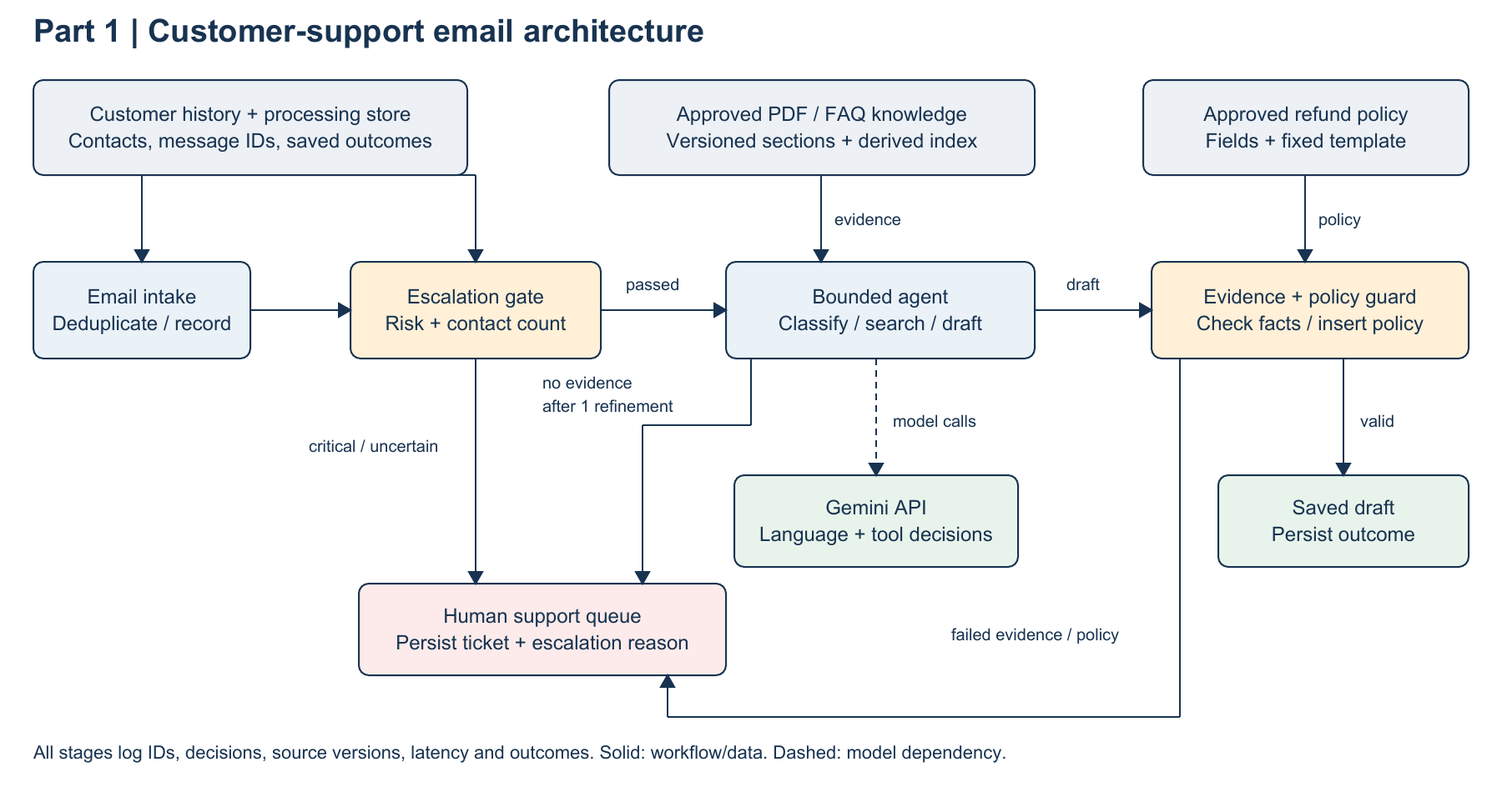
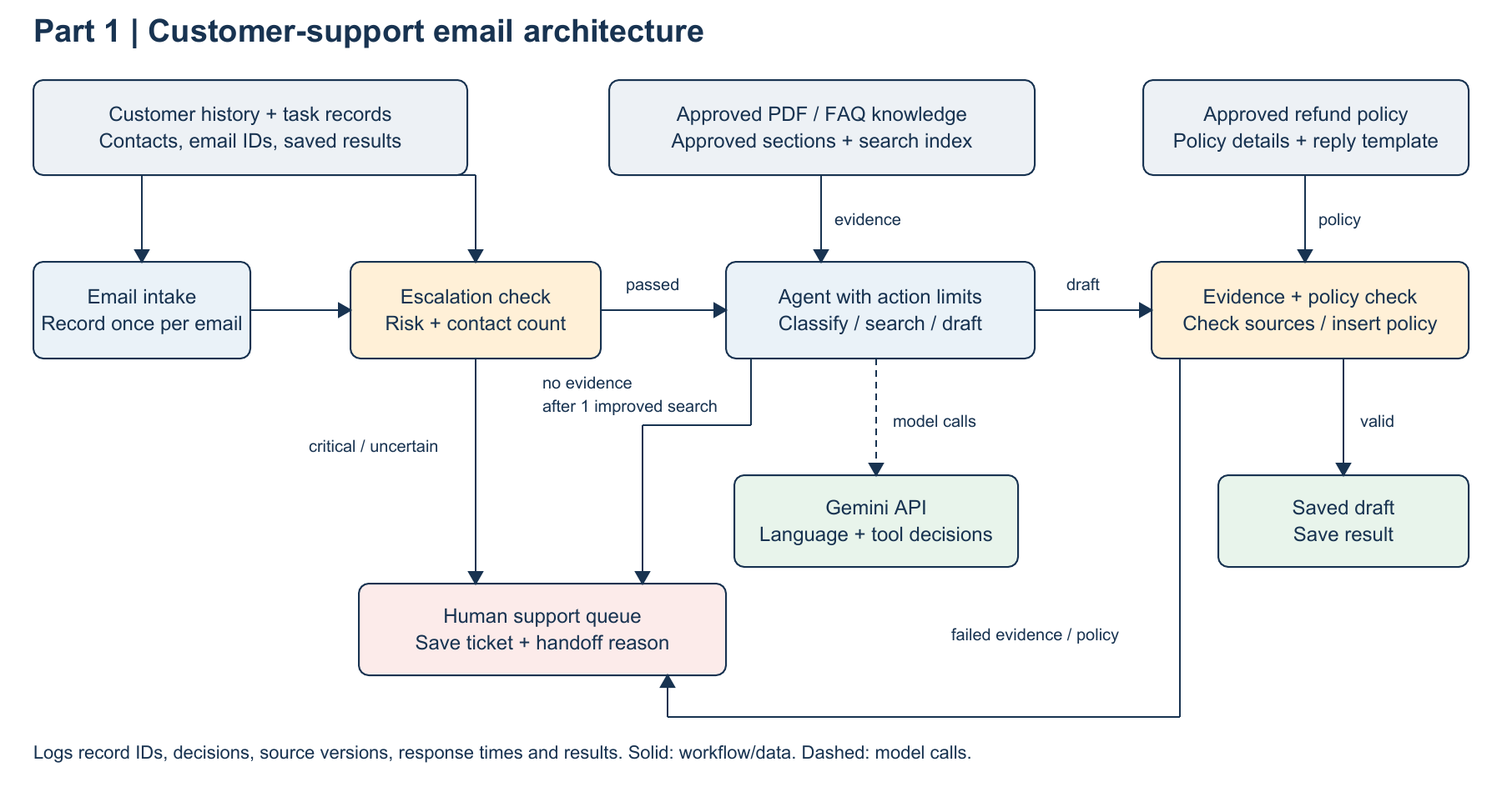
Simplify assessment documentation

diff --git a/part1/design.md b/part1/design.md
@@ -2,26 +2,26 @@
 
 ## Scope and assumptions
 
-This is the Part 1 design deliverable; the runnable document agent is Part 3. The system classifies emails, drafts responses from an approved PDF/FAQ knowledge base, and records human handoffs. Its output is a saved draft or a human ticket. Sending emails and issuing refunds are outside the requested scope.
+Part 1 proposes a system for handling customer-support emails. It assigns categories, prepares replies from approved PDFs and FAQs, and sends high-risk cases to human support staff. The system saves either a reply draft or a support ticket. Sending emails and approving refunds are outside this design. The working document agent is described in Part 3.
 
-No employer knowledge base, refund policy, traffic figures, or customer-history schema was supplied. OrbitDesk's Part 3 handbook is fictional demonstration data.
+The assessment did not provide a knowledge base, refund policy, expected email volume, or customer-history format. The OrbitDesk handbook in Part 3 is fictional sample data.
 
-Assumptions to confirm with the business:
+The following assumptions would need confirmation from the business:
 
-- A contact is one distinct received support email identified by a stable message ID. Retries are not new contacts.
-- The current email counts. More than 3 means the fourth contact triggers escalation.
-- The window includes timestamps from `received_at - 7 days` through `received_at`, inclusive, using UTC. Later contacts are not included in an older email's count.
-- Contacts are associated with a verified customer ID; unresolved identity or unavailable history requires human handling.
-- Categories may overlap: an email can be both Billing and Technical. Feedback is another supported label.
-- A policy owner approves extracted policy content before it becomes usable by the assistant.
+- One contact is one received support email with a unique message ID. Processing the same email again does not create another contact.
+- The current email counts towards the total. The fourth contact within seven days triggers a human handoff.
+- The seven-day period includes both end points, from `received_at - 7 days` to `received_at`, using UTC. An email received later is not counted when processing an earlier email.
+- Each contact belongs to a verified customer ID. If the customer cannot be identified or their history is unavailable, the email goes to a human.
+- An email can have more than one category, such as Billing and Technical. Feedback is another supported category.
+- A policy owner must approve extracted policy information before the assistant can use it.
 
 ## System architecture diagram
 
 ![Customer-support email architecture](system-design.png)
 
-The diagram shows application stages, authoritative/derived knowledge sources, the model dependency, and human/draft outcomes. The detailed control flow below includes the retry and refinement branches.
+The diagram shows the main processing steps, approved information sources, the Gemini connection, and the two outcomes: a saved draft or a human support ticket. The flow below also shows the retry and search-improvement paths.
 
-The escalation gate flags mentions of data loss, service outage or a security breach, and more than three distinct contacts from the same verified customer in the seven-day window. The current email counts. Unknown identity, incomplete history or unresolved risk requires human handoff before drafting.
+Before writing a reply, the system checks for data loss, a service outage, or a security breach. It also checks whether the customer has contacted support more than three times in seven days. Any of these conditions sends the email to a human. Missing customer details, incomplete history, or uncertain risk also blocks drafting.
 
 ### Processing flow
 
@@ -42,70 +42,70 @@ flowchart TD
     G -->|Passed| I[Save draft and processing outcome]
 ```
 
-Critical emails are flagged immediately. Their category can be recorded by a classification-only task for the human queue; that task has no drafting capability and cannot delay the critical flag or handoff.
+Critical emails are flagged immediately. A separate task can assign categories to help staff organise the ticket, but it cannot write a reply or delay the handoff.
 
-## Responsibilities and authority
+## Component responsibilities
 
-| Component | Responsibility and enforcement |
+| Component | Responsibility |
 | --- | --- |
-| Intake and state store | Store the distinct contact before counting; one record per message ID. Atomically claim processing and persist the terminal outcome. A retry returns an existing outcome or resumes pending work. |
-| Escalation gate | Block drafting until a risk decision is recorded as passed. Query distinct contacts for the verified customer and window. Literal mentions of data loss, service outage, or security breach always flag. Detect additional phrase variants with a language classifier; uncertain/failed detection goes to humans. |
-| Classifier | Return validated labels from Billing, Technical, Feedback, plus an unresolved result when necessary. Allow multiple labels. Do not let model output override the escalation gate. |
-| Knowledge search | Read approved PDF/FAQ sections with document ID, section/page, and version. Search indexes are derived from these sources and can be rebuilt. |
-| Bounded agent | Choose relevant knowledge searches based on the customer's question and inspect returned evidence. Permit one query refinement; missing evidence then ends in human handoff. No access to sending, refund issuance, or bypassing the gate. |
-| Draft and validator | Draft only from retrieved evidence. Require source references; verify the cited excerpts exist and check policy constraints. Withhold unsupported answers. |
-| Human queue | Persist escalation reasons, categories when available, and useful source references. Give humans the original email in the protected ticket system. |
+| Email intake and processing store | Record each contact before counting it, with one record for each message ID. Claim the task in one database action so two workers cannot process the same email. Save the final result. If processing is retried, return the saved result or continue unfinished work. |
+| Escalation check | Block drafting until the risk check passes. Count the customer's separate contacts in the seven-day period. Always flag the three required critical terms. Use a language classifier for similar wording. Send uncertain results or failed checks to a human. |
+| Email classifier | Assign one or more categories: Billing, Technical, and Feedback. Mark unclear cases as unresolved. The model cannot override the escalation check. |
+| Knowledge search | Search approved PDF and FAQ sections, keeping the document ID, version, and page or section reference. The search index is built from these sources and can be rebuilt. |
+| Agent with limited actions | Choose searches that match the customer's question and review the results. Allow one improved search if the first result is insufficient. If evidence is still missing, send the case to a human. The agent cannot send emails, issue refunds, or skip the escalation check. |
+| Reply writer and checker | Write the draft from retrieved information. Require source references, check that quoted text exists, and apply the policy rules. Do not produce a reply without support. |
+| Human support queue | Save the handoff reason, any available categories, and useful source references. Staff can access the original email through the protected ticket system. |
 
-## Refund-policy safeguard
+## Preventing incorrect refund-policy statements
 
-RAG and an instruction alone cannot ensure that every generated policy claim is correct. Use a narrower output path for refund-policy questions:
+Finding relevant information and telling an LLM to follow it does not guarantee a correct reply. Refund-policy replies therefore use approved templates:
 
-1. Ingest the approved policy PDF/FAQ, retaining its source and version. A policy owner approves the structured record and customer-facing template; automatic extraction alone is not authoritative.
-2. Resolve the applicable policy version. If a policy is missing or contradictory, record a human handoff.
-3. Populate approved template text from approved fields for deadlines, eligibility and exclusions. Insert that text programmatically; keep it out of free-form model rewriting.
-4. For any email involving refunds, keep all policy/eligibility wording within this controlled path. Mixed or ambiguous requests that cannot be expressed safely go to humans. Never claim approval without verified customer facts and human authority.
+1. Extract the policy from an approved PDF or FAQ and store its source and version. The policy owner checks the stored fields and customer-facing template. Extracted text is not approved automatically.
+2. Select the relevant policy version. If the policy is missing or contradictory, send the case to a human.
+3. Fill the approved template with verified deadlines, eligibility rules, and exclusions. Code inserts this text directly, so the model cannot rewrite the policy terms.
+4. Use this process for every statement about refunds or eligibility. Send mixed or unclear requests to a human when the template cannot answer them safely. Do not say that a refund is approved without verified customer information and human authorisation.
 
-An LLM may classify intent or formulate a knowledge query, but it cannot alter approved policy terms. The Part 3 agent demonstrates general document grounding and does not implement this production template workflow.
+The LLM can identify what the customer wants or choose a search query, but it cannot change approved policy terms. Part 3 demonstrates document-based answers; it does not implement this refund-template process.
 
-## Small data model
+## Data records
 
-- `Contact`: unique message ID, verified customer ID, received timestamp. Index customer ID and timestamp for window queries.
-- `Processing`: message ID, state (`pending`, `checking`, `human`, `draft`), risk decision, reason, categories, source IDs, policy version, output ID. One owner at a time; terminal outcome survives retries.
-- `KnowledgeSection`: document ID, version, section/page ID, text, approval status.
-- `RefundPolicy`: policy ID/version, approved fields, approved template, source references.
+- `Contact`: unique message ID, verified customer ID and received time. Index the customer ID and timestamp to support seven-day history searches.
+- `Processing`: message ID, current state (`pending`, `checking`, `human`, `draft`), risk decision, reason, categories, source IDs, policy version and output ID. Only one worker owns the task at a time, and the final result is kept when processing is retried.
+- `KnowledgeSection`: document ID, version, section or page ID, text and approval status.
+- `RefundPolicy`: policy ID and version, approved fields, approved template and source references.
 
-The customer-history and processing records are authoritative. Retrieval indexes are derived. The chosen prototype needs no distributed consistency machinery; a production implementation should use transactions for contact deduplication and state transitions. Concurrency for different emails from the same customer must not lose contacts or bypass the threshold.
+Customer-history and processing records are the source of truth. The search index is a separate copy used to find information. A production version should use database transactions to prevent duplicate contacts and update processing states safely. When several emails from one customer arrive together, all contacts must be counted so the fourth contact cannot avoid escalation.
 
-## Failure behavior
+## Handling failures
 
-| Failure | Outcome |
+| Problem | Response |
 | --- | --- |
-| Unknown identity or history lookup failure | Human handoff; never assume zero contacts. |
-| Explicit critical phrase, paraphrase classified critical, or uncertain risk | Flag before drafting, then save human ticket. Test false negatives and negation cases separately. |
-| Knowledge missing/conflicting after one refinement | Human handoff with reason; no guessed response. |
-| Model timeout, quota error, invalid labels or invalid evidence | Bound retry attempts; save human ticket when exhausted. |
-| Unapproved/conflicting refund policy | Block the refund response and request human handling. |
-| Duplicate input or worker retry | Unique message ID and persisted state prevent duplicate contact counts or terminal outputs. |
-| State store unavailable | Leave work pending for bounded retry and alert operations; do not proceed to drafting or claim a human ticket was saved. |
-| Queue backlog or model rate limit | Limit worker concurrency; back off retries and monitor oldest pending email. Prioritise critical handoffs. |
+| Customer identity is unclear or history cannot be loaded | Send the case to a human. Do not assume there were no previous contacts. |
+| A critical phrase is found, similar wording is classified as critical, or risk is uncertain | Flag the email before drafting and save a human support ticket. Test missed detections and negative statements separately. |
+| Knowledge is missing or conflicting after one improved search | Send the case to a human with an explanation. Do not guess a reply. |
+| The model times out, reaches a quota limit, returns invalid categories, or provides unsupported evidence | Retry only within a set limit, then send the case to a human. |
+| Refund policy is unapproved or conflicting | Block the refund reply and ask a human to handle it. |
+| The same email arrives again or a worker retries it | Use the message ID and saved processing state to avoid counting the contact or saving the outcome twice. |
+| The processing store is unavailable | Keep the task pending, retry within a set limit and alert the operations team. Do not draft or claim that a ticket has been saved. |
+| The queue grows or the model limits request rates | Limit the number of workers running together, increase the delay between retries, and monitor the oldest waiting email. Prioritise critical handoffs. |
 
-There are no supplied load numbers. Establish sustainable throughput by measuring model latency, request quotas and queue age under a stated workload. For average model latency `L` seconds and `C` workers, a rough upper bound is `C/L` model requests per second before provider quotas and other work; retries consume the same capacity. Do not present this estimate as a measured benchmark.
+The assessment does not give an expected workload. Capacity would need to be measured using model response times, request quotas, and queue waiting times. With an average model latency of `L` seconds and `C` workers, `C/L` is a rough upper limit on model requests per second before other work and provider limits are considered. Retries also use this capacity. This is an estimate, not a measured benchmark.
 
-## Verification and observability
+## Planned tests and monitoring
 
-Planned Part 1 acceptance cases (design targets, not executed email-system tests):
+Part 1 is a design. These checks are planned for a future implementation and have not been run against an email service:
 
-- Each literal critical condition prevents the drafting function from being invoked.
-- Three contacts pass the count rule; four escalate. Boundary timestamps and repeated message IDs are checked.
-- History unavailable and ambiguous customer identity block drafting.
-- Multiple category labels can be returned for a mixed email.
-- Unsupported refund terms cannot appear in the controlled policy output.
-- Missing evidence, model timeout, and duplicate worker delivery reach the defined outcomes.
+- Each required critical condition prevents the reply-writing function from running.
+- Three contacts pass the contact-count rule; four trigger a handoff. Test exact time boundaries and repeated message IDs.
+- Missing history or unclear customer identity prevents drafting.
+- A mixed email can receive multiple category labels.
+- Refund replies cannot include terms that are absent from the approved policy.
+- Missing evidence, model timeouts and repeated worker tasks produce the expected outcomes.
 
-Log message ID, stage, category, escalation reason, source IDs, policy version, latency and outcome. Avoid email bodies, credentials and personal details in routine logs. Monitor escalation detection accuracy, grounded-answer errors, queue age, model error rate and token/request costs. A passing citation check establishes provenance, not semantic entailment; human sampling and adversarial evaluations remain necessary.
+Logs should record the message ID, processing step, categories, escalation reason, source IDs, policy version, response time, and outcome. Routine logs should not include email bodies, credentials, or personal details. Monitor missed critical issues, unsupported answers, queue waiting times, model errors, and usage costs. A matching citation shows where information came from, but does not prove that the answer interpreted it correctly. Human review and failure-focused tests are still needed.
 
 ## Trade-offs
 
-A controlled workflow makes mandatory gates explicit. Bounded search decisions provide useful agentic behavior without giving the model authority over escalation. Direct SDK calls keep the prototype small; LangGraph would become useful if durable workflow execution or more states justified its dependency. A full autonomous or multi-agent design adds coordination and failure paths without a requirement that needs them.
+A controlled workflow makes the required checks easy to follow and enforce. The agent can choose and improve searches, while the application controls whether drafting is allowed. Direct SDK calls keep the prototype small. LangGraph could be useful if the system later needs more workflow states or recovery after restarts. Several independent agents would add coordination work without a clear benefit for this assessment.
 
-The conservative human fallback trades automation coverage for fewer unsafe drafts. Literal checks are predictable but miss paraphrases; language detection broadens coverage but needs evaluation and cannot guarantee perfect recall. Controlled refund templates reduce writing flexibility and require policy maintenance in exchange for keeping policy terms authoritative.
+Sending uncertain cases to humans reduces the number of automated replies, but lowers the risk of unsafe drafts. Exact phrase checks are predictable, although they can miss similar wording. A language classifier can identify more cases, but it needs testing and may still miss some issues. Approved refund templates limit writing flexibility and need maintenance, but they keep policy terms under business control.

diff --git a/part2/README.md b/part2/README.md
@@ -1,31 +1,41 @@
-# Scraping and concise summarisation
+# Website scraping and concise summaries
 
 ## Hypothetical starting problem
 
-No broken script was supplied. Assume a naive script fetches HTML with one HTTP request, joins every paragraph, and sends all text in one model request. This is an illustrative baseline, not a diagnosis of supplied code.
+The assessment did not include a broken script. For this example, assume the original script downloads a page once, combines all paragraph text and sends it to the model in one request.
 
-Its bottlenecks are:
+This approach has four main problems:
 
-- HTTP fetching does not execute JavaScript, so an application shell may contain no article.
-- Paragraph-only scraping can miss headings, tables, and other content while including navigation and adverts.
-- A single unbounded prompt increases latency/cost and can exceed context limits or lose information from long inputs.
-- A prompt saying "be concise" is not an enforceable output limit.
+- A normal HTTP request does not run JavaScript, so it may download an empty page shell instead of the article.
+- Extracting only paragraphs can miss headings and tables while still including menus and advertisements.
+- Sending all content in one request can cost more, take longer, exceed the model input limit, or miss important details.
+- Telling the model to be concise does not guarantee a maximum summary length.
 
-## Implemented approach
+## Improved scraping
 
-`scraper.py` downloads HTML with connect/read timeouts and a 2 MiB limit. BeautifulSoup removes common navigation, script and hidden elements and prioritises main/article content, including tables. If static readable content is under 200 characters, Playwright renders the page and waits up to 5 seconds for content after navigation. `--render` forces rendering when a substantial shell masks missing article content. HTTP errors are reported rather than bypassed.
+`scraper.py` uses connection and download timeouts and limits HTML to 2 MiB. BeautifulSoup removes common menus, scripts and hidden elements, then searches for the main article content, including tables.
 
-The extractor is intentionally general: it does not promise success for every website. External CSS visibility, iframes, infinite scrolling, authentication, paywalls and CAPTCHA are not handled. A browser renders scripts and makes subresource requests; the 2 MiB limit bounds the resulting HTML, not total browser network traffic. Use only pages you are permitted to scrape.
+If the extracted text is shorter than 200 characters, Playwright opens the page in a browser and runs its JavaScript. It waits up to five seconds for content after navigation. The `--render` option forces this step when the downloaded page contains placeholder text but not the article. HTTP errors are shown clearly.
 
-Long text is divided into chunks of at most 6,000 characters. Each source chunk becomes notes; notes are grouped and summarised repeatedly until the combined notes fit one 6,000-character content payload, then the final summary is generated. Intermediate notes have word/character caps so each reduction level shrinks. All accepted source chunks are processed, including the tail. This hierarchical map/reduce approach handles articles beyond the earlier 12-chunk limit without creating an oversized final content payload.
+The scraper supports common HTML pages, but it cannot handle every site. It does not support external CSS visibility rules, iframes, infinite scrolling, login pages, paywalls or CAPTCHA. The 2 MiB limit applies to the resulting HTML, not all files downloaded by the browser. Only scrape pages you are allowed to access.
 
-An absolute **100-source-chunk safety budget** remains: larger inputs are rejected before any model call and must be split into separate articles. This is a prototype cost/latency assumption, not a requirement from the employer. The 2 MiB HTML limit also remains. Summarisation can lose detail; more reduction levels increase that risk, and sending every chunk to a model does not prove that every fact survives in the final answer.
+## Handling long content
 
-The final limit is **120 whitespace-separated words**, an explicit assessment assumption. An overlong output is shortened once by Gemini; a deterministic cap then enforces the bound and prefers a complete sentence when possible. A forced cap can omit details, so the logs report when it occurs. Output-token limits alone do not guarantee a word limit.
+The script splits text into chunks of up to 6,000 characters. Gemini creates short notes for each chunk. The script then groups and summarises those notes again until they fit into one 6,000-character input. It then creates the final summary. Each set of notes has word and character limits, so the content becomes shorter at every stage. Every accepted chunk is processed, including the end of the article.
+
+The script accepts at most **100 source chunks**. It rejects a larger input before calling the model, so it must be split into separate articles. This limit and the 2 MiB HTML limit are prototype choices to control cost and processing time.
+
+Repeated summarisation can remove useful details. Processing every chunk means every part of the article reaches the model, but it does not guarantee that every fact appears in the final summary.
+
+## Keeping the summary concise
+
+The final summary is limited to **120 words**. The script counts words by whitespace. The assessment does not specify a word count, so 120 words is a design choice.
+
+If the first summary is too long, Gemini is asked once to shorten it. The code then applies a fixed word limit and keeps a complete sentence where possible. This final limit can remove details, so the logs record when it is used. A model output-token limit alone cannot guarantee a maximum word count.
 
 ## Run
 
-From the repository root with dependencies and `.env` configured:
+From the repository root, after installing dependencies and configuring `.env`:
 
 ```powershell
 python -m part2.scraper https://example.com
@@ -33,6 +43,8 @@ python -m part2.scraper https://example.com --render
 python -m part2.scraper --html PATH_TO_FILE
 ```
 
-Replace the example URL with a permitted article, or provide your own local HTML file. Use `--render` when a substantial static shell masks JavaScript content.
+Replace the example URL with a page you are allowed to scrape, or provide a local HTML file. Use `--render` when JavaScript content is missing from the downloaded HTML.
 
-Logs on stderr show extraction method, chunk count, reduction progress, model-call latency, final word count and whether the hard cap was applied. The summary is printed on stdout. Gemini has a 30-second per-attempt timeout and up to 2 total attempts. Requests run sequentially; near the safety limit, the job can require over 100 model calls including reductions, consuming more quota and taking substantially longer. No performance benchmark is claimed.
+The summary is printed to standard output. Logs on standard error show the extraction method, chunk count, summarisation progress, model response time, final word count and whether the fixed word limit was used.
+
+Each Gemini request has a 30-second timeout, with up to two attempts in total. Requests run one at a time. Articles near the chunk limit can need more than 100 model calls, including the repeated summarisation steps. This increases processing time and Gemini quota use. No performance benchmark was run.

diff --git a/README.md b/README.md
@@ -1,17 +1,17 @@
 # Agentic Architect Challenge
 
-Developer Intern assessment using Python and Gemini: customer-support email architecture, website scraping and summarisation, and a document agent with memory and conditional tool use.
+This Developer Intern assessment uses Python and Gemini. It contains a customer-support email system design, a website scraper and summariser, and a document question-answering agent. The agent remembers recent conversation context and uses a calculator only when a question needs one.
 
 ## Deliverables
 
 | Part | Deliverable |
 | --- | --- |
-| 1 | [Email system design](part1/design.md) and [architecture diagram](part1/system-design.png): classification, escalation before drafting, knowledge grounding, refund safeguards, trade-offs and failure handling. This is a proposed architecture. |
-| 2 | [Scraping script and explanation](part2/README.md): complex-page extraction, long-content processing and a 120-word summary guardrail. |
-| 3 | [Document agent and demonstration](part3/README.md): [sample document](part3/sample_document.md), conversation memory and Gemini-selected calculator. |
-| Architecture | [One-page architecture PDF](docs/architecture.pdf) explaining the architecture, trade-offs and failure points. |
+| 1 | [Email system design](part1/design.md) and [architecture diagram](part1/system-design.png): email categories, escalation before drafting, approved knowledge sources, refund-policy safeguards, trade-offs and failure handling. This is a design proposal, not a working email service. |
+| 2 | [Scraping script and explanation](part2/README.md): complex-page extraction, long-article processing and a 120-word summary limit. |
+| 3 | [Document agent and demonstration](part3/README.md): a [sample document](part3/sample_document.md), conversation memory and a calculator selected by Gemini when needed. |
+| Architecture | [One-page architecture PDF](docs/architecture.pdf): system architecture, design trade-offs and possible failure points. |
 
-No employer knowledge base or refund policy was supplied. The OrbitDesk handbook is fictional demonstration data.
+The employer did not provide a knowledge base or refund policy. The OrbitDesk handbook is fictional and is only used to demonstrate Part 3.
 
 ## Local setup
 
@@ -26,7 +26,7 @@ python -m venv .venv
 Copy-Item .env.example .env
 ```
 
-Copy `.env.example` only if `.env` does not already contain your settings. Set `GEMINI_API_KEY` in `.env` to your [Google AI Studio API key](https://aistudio.google.com/apikey). `GEMINI_MODEL` selects the Gemini model; the configured default is `gemini-3.8-flash`. Use a model available to your account that supports function calling. Live requests consume provider quota.
+Copy `.env.example` only if `.env` does not already contain settings. Set `GEMINI_API_KEY` in `.env` to your [Google AI Studio API key](https://aistudio.google.com/apikey). `GEMINI_MODEL` selects the Gemini model; the default is `gemini-3.8-flash`. Choose a function-calling model available to your account. Live requests use your Gemini quota.
 
 For the commands below, activate the environment with `.\.venv\Scripts\Activate.ps1` or replace `python` with `.\.venv\Scripts\python.exe`. The latter works when PowerShell blocks activation.
 
@@ -39,19 +39,19 @@ python -m part3.agent
 python -m part2.scraper https://example.com
 ```
 
-Replace the example URL with a permitted article. Add `--render` for JavaScript pages. To summarise a local HTML file, use `python -m part2.scraper --html PATH_TO_FILE`.
+Replace the example URL with a page you are allowed to scrape. Add `--render` for a JavaScript page. To summarise a local HTML file, run `python -m part2.scraper --html PATH_TO_FILE`.
 
-Part 3 commands: `/reset` clears session memory and `/quit` exits. Its README includes a multi-turn demonstration covering document answers, memory and conditional tool use.
+Part 3 commands: `/reset` clears session memory and `/quit` exits. Its README includes a sequence of questions that demonstrates document answers, memory and tool selection.
 
-## Operational behavior and limitations
+## Logging and limitations
 
-Logs on stderr report stages, model-call latency, chunk counts, tools and guardrail outcomes. They omit keys, document bodies and user prompts. Requests run sequentially; no load benchmark or production reliability is claimed.
+Logs on standard error show processing steps, model response times, chunk counts, tool use and summary-length checks. They do not include API keys, document text or user prompts. Requests run one at a time. This is a prototype and has not been load tested.
 
-- Part 1 is a design, not an implemented mailbox service. Its document includes planned acceptance checks.
-- Part 2 supports ordinary public HTML and bounded browser rendering. It does not handle authentication, paywalls, CAPTCHA, infinite scrolling or every site's layout.
-- Part 3 uses one short document in full context and retains the latest 12 completed turns. Citation matching checks excerpts, not the truth of every interpretation; human review remains necessary.
-- Summary limits, sample policies and contact-counting assumptions are documented design choices, not employer-provided facts.
+- Part 1 is a proposed email system. Its safety checks would need to be implemented and tested in a real service.
+- Part 2 handles ordinary public HTML and can render JavaScript pages within time and size limits. It does not support login pages, paywalls, CAPTCHA, infinite scrolling or every site layout.
+- Part 3 sends one short document to the model and remembers the latest 12 completed turns. A matching source quote does not prove that the answer is interpreted correctly, so human review is still needed.
+- The summary length, sample policy and contact-counting rules are design choices for this assessment. The employer did not provide them.
 
 ## AI assistance
 
-Codex assisted with interpreting the assessment, drafting the design, writing code and documentation, and preparing the architecture PDF. This is AI-assisted work. The candidate should understand and be able to explain every submitted component.
+Codex assisted with interpreting the assessment, drafting the design, writing code and documentation, and preparing the architecture PDF. This is AI-assisted work. The candidate should review and be able to explain every part before submitting it.

diff --git a/part3/README.md b/part3/README.md
@@ -1,16 +1,16 @@
-# Document agent
+# Document question-answering agent
 
-The sample document is a fictional OrbitDesk support handbook. It is deliberately small and divided into numbered sections. The complete document is included in Gemini's system instruction, avoiding an unnecessary vector database and retrieval implementation for one short document.
+The agent answers questions using a fictional OrbitDesk support handbook. The document is short and divided into numbered sections. The full document is included in Gemini's system instruction, so this small example does not need a separate search index or vector database.
 
 ## Run
 
-From the repository root with dependencies and `.env` configured:
+From the repository root, after installing dependencies and configuring `.env`:
 
 ```powershell
 python -m part3.agent
 ```
 
-Try these in the same session:
+Try these questions in the same session:
 
 ```text
 My name is Jerence.
@@ -24,20 +24,38 @@ What is my name?
 /quit
 ```
 
-The terminal displays the answer and actual selected tools. Logs show tool execution and model latency without storing prompts or credentials.
+These questions show the agent remembering a name, answering questions from the document, using a calculator for arithmetic, and handling missing information. After `/reset`, the agent should no longer remember the earlier name. The terminal shows the answer and the tools that were called. Logs record tool use and model response times without storing prompts or credentials.
 
-## Agentic behavior
+## How the agent chooses a tool
 
-Gemini receives the calculator definition with function-calling mode AUTO. It decides whether arithmetic is needed. Python executes only the supported calculator, returns the result to Gemini, and lets the model finish or correct invalid arithmetic. This is a bounded reasoning/action loop, rather than a keyword-based tool switch. There is a limit of two tool calls and three model requests per question, excluding the SDK's bounded retry attempts.
+Gemini receives a description of the calculator with function-calling mode set to `AUTO`. It decides whether a question needs arithmetic. Python runs the calculator, returns the result to Gemini, and lets the model finish its answer or respond to an invalid calculation.
 
-The calculator parses an arithmetic syntax tree; it never calls `eval`. It accepts numbers, parentheses, +, -, * and /; names, function calls, exponentiation, non-finite results and division by zero are rejected.
+This gives the model a limited set of actions. The code does not choose the calculator by looking for particular words in the question. Each question allows up to two tool calls and three model requests, excluding the SDK's limited retries.
 
-## Memory and grounding
+The calculator reads the structure of an arithmetic expression instead of running it with `eval`. It supports numbers, parentheses, addition, subtraction, multiplication and division. It rejects names, function calls, powers, non-finite results, and division by zero.
 
-Each agent instance retains the latest 12 completed turns in memory. Earlier user/model messages are sent with the next question. Tool messages are kept together with their turn, preserving complete Gemini function-call messages and thought signatures. `/reset` and process exit clear memory. It is session context, not persistent identity storage; a name mentioned only in an older discarded turn may be forgotten.
+## Conversation memory
 
-Final answers have a JSON shape describing document, memory, calculation or unknown answers. Document answers require a real section ID and an exact supporting excerpt; invalid evidence is withheld. Unknown questions receive a standard missing-information response. Calculations require a successful tool result. Model output is checked in code, but source matching does not prove that every answer semantically follows from its excerpt. Memory-answer classification also relies on the model. Live evaluations and human review remain necessary; this is not a guarantee against all hallucinations.
+Each agent keeps the latest 12 completed conversation turns. Previous user messages and model replies are included with the next question. Tool messages stay with the same conversation turn, including Gemini function-call details and thought signatures needed for follow-up requests.
 
-The handbook is capped at 24,000 characters and questions at 2,000. Answers are bounded, errors are shown clearly, and failed turns are not added to completed conversation history. Provide another UTF-8 document with numbered `[S1]`, `[S2]` sections using `--document FILE`.
+Memory lasts only for the current session. `/reset` or closing the program clears it. Information from an older turn may be forgotten after that turn is removed from the 12-turn history.
 
-The production refund-template safeguard described in Part 1 is a separate proposed design, not a feature of this general document agent.
+## Checking answers against the document
+
+Gemini returns a JSON response that identifies whether the answer comes from the document, conversation memory, a calculation, or missing information.
+
+An answer based on the document must include a real section ID and an exact supporting quote. If the evidence fails these checks, the answer is not shown. Questions the document cannot answer receive a standard missing-information response. Calculation answers require a successful calculator result.
+
+These checks reduce unsupported answers, but a matching quote does not prove that the model interpreted it correctly. The model also decides whether an answer comes from conversation memory. Live model checks and human review are still needed; this approach cannot guarantee that every answer is correct.
+
+## Limits and error handling
+
+The document is limited to 24,000 characters and each question to 2,000 characters. Answers have length limits, errors are shown clearly, and failed turns are not stored in the conversation history.
+
+To use another UTF-8 document, give its sections numbered labels such as `[S1]` and `[S2]`, then run:
+
+```powershell
+python -m part3.agent --document FILE
+```
+
+The approved refund-template process in Part 1 is a separate proposed design. This document agent does not include that production safeguard.
